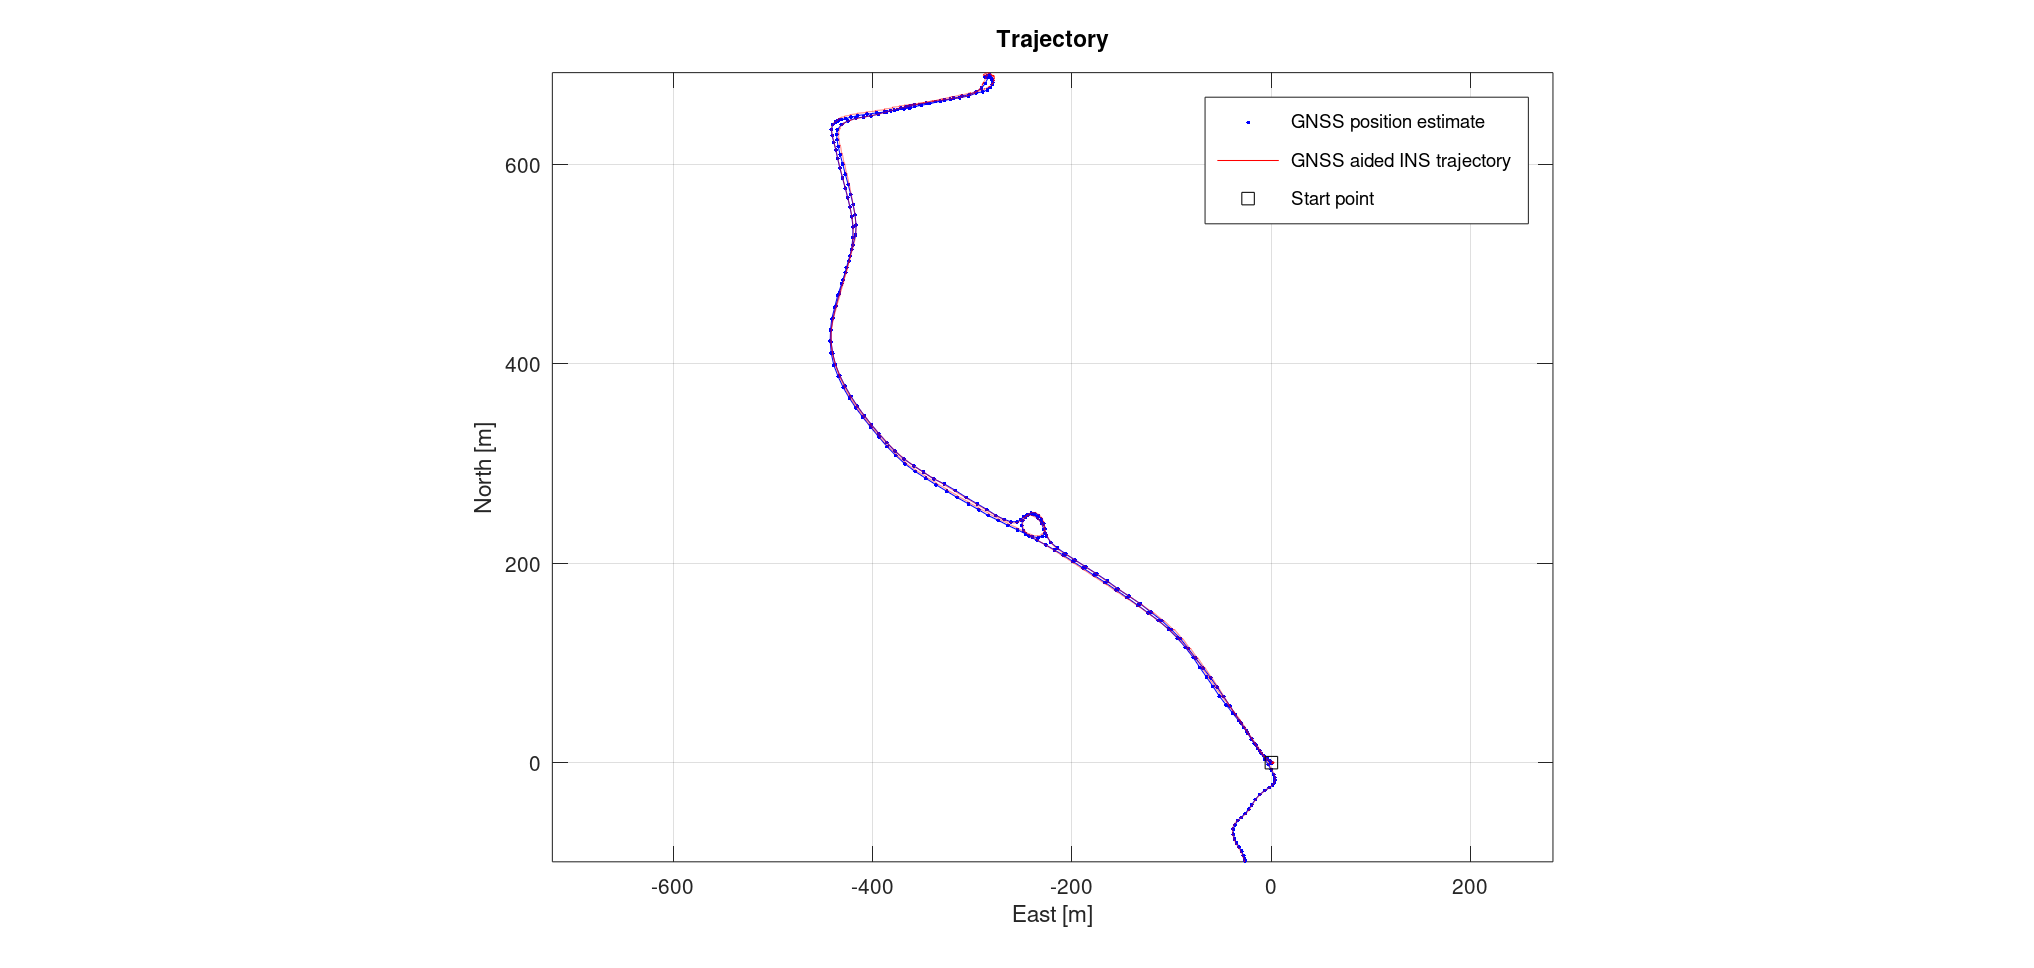
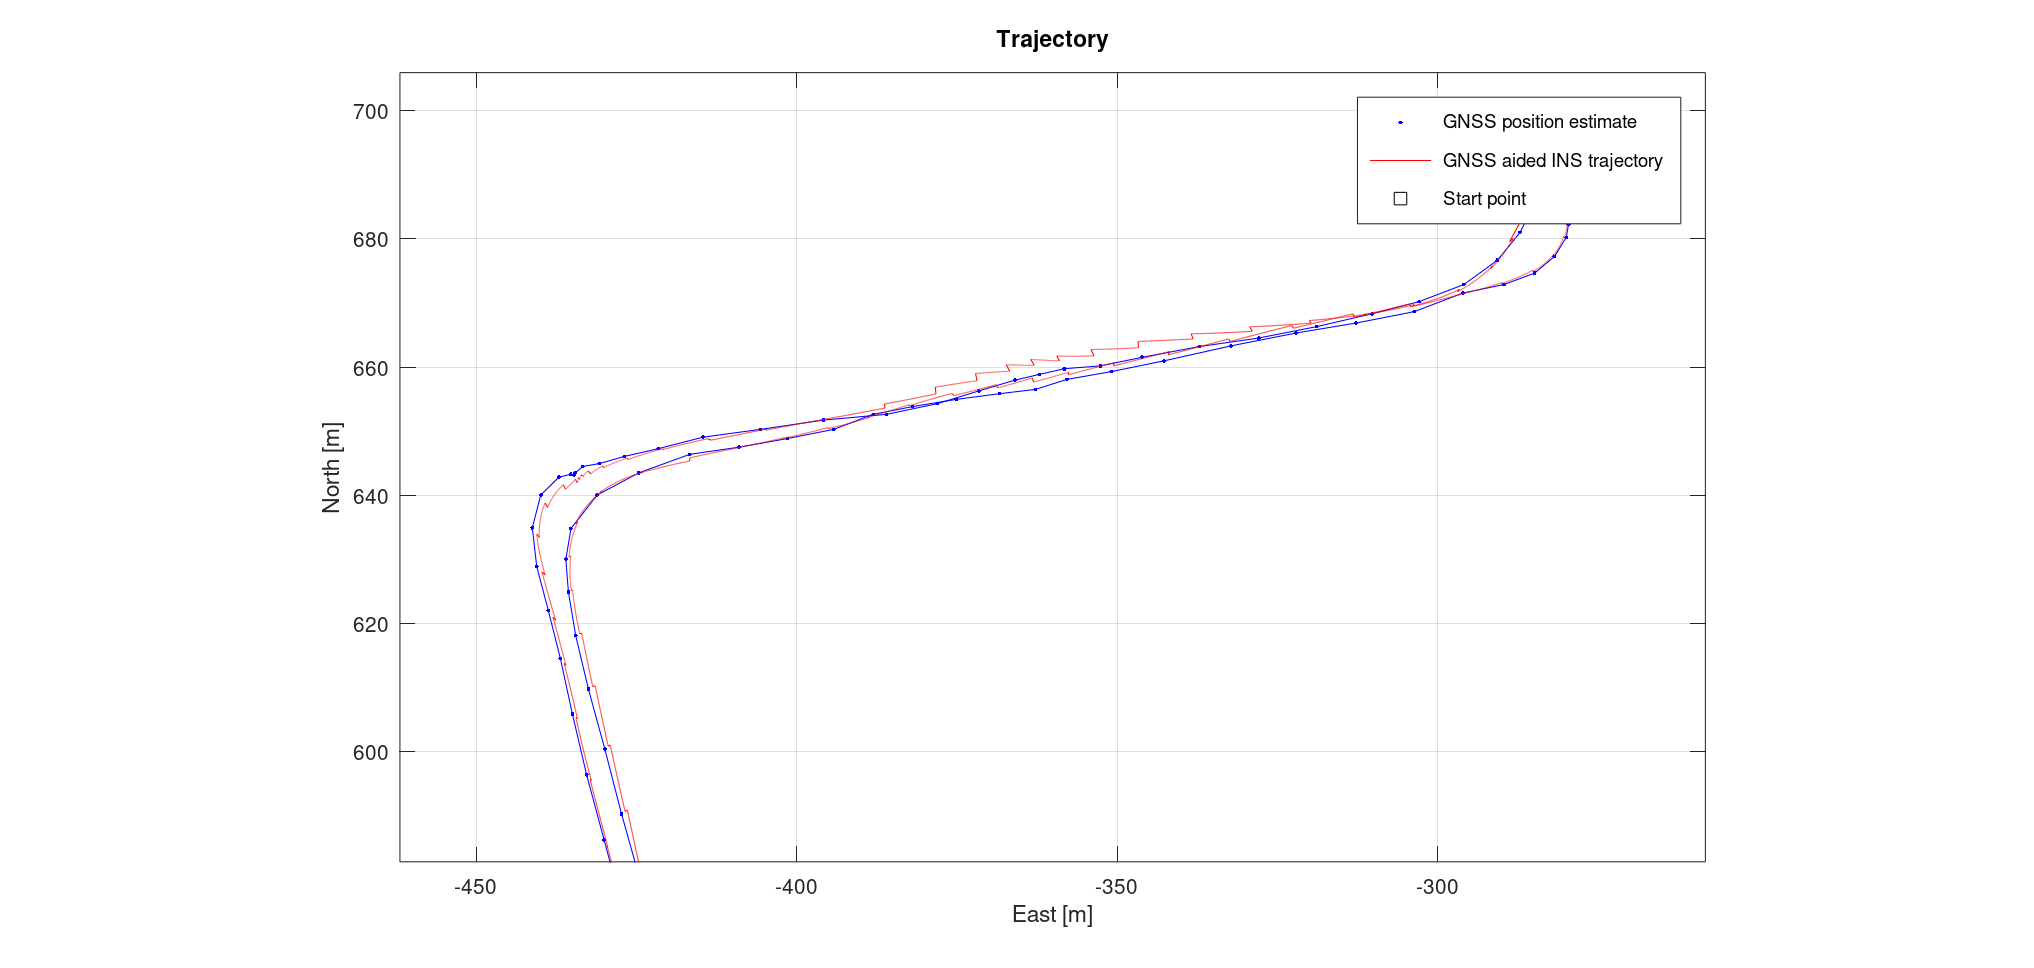
+imgs

diff --git a/GPSaidedIMU/get_settings.m b/GPSaidedIMU/get_settings.m
@@ -14,9 +14,9 @@ function settings=get_settings()
 %%%%%%%%%%%%%%%%%%%%%%%%%%%%%%%%%%%%%%%%%%%%%
 %%              GENERAL PARAMETERS         %%
 %%%%%%%%%%%%%%%%%%%%%%%%%%%%%%%%%%%%%%%%%%%%%
-settings.gnss_outage = 'off';
+settings.gnss_outage = 'on';
 settings.outagestart = 200; settings.outagestop = Inf;
-settings.non_holonomic = 'off';
+settings.non_holonomic = 'on';
 settings.speed_aiding = 'off';
 
 settings.init_heading = 320*pi/180;
